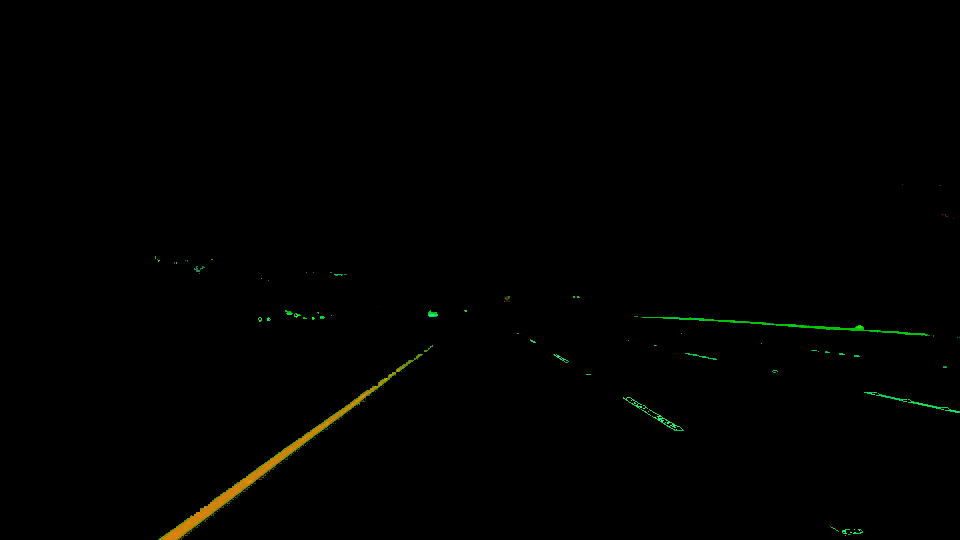
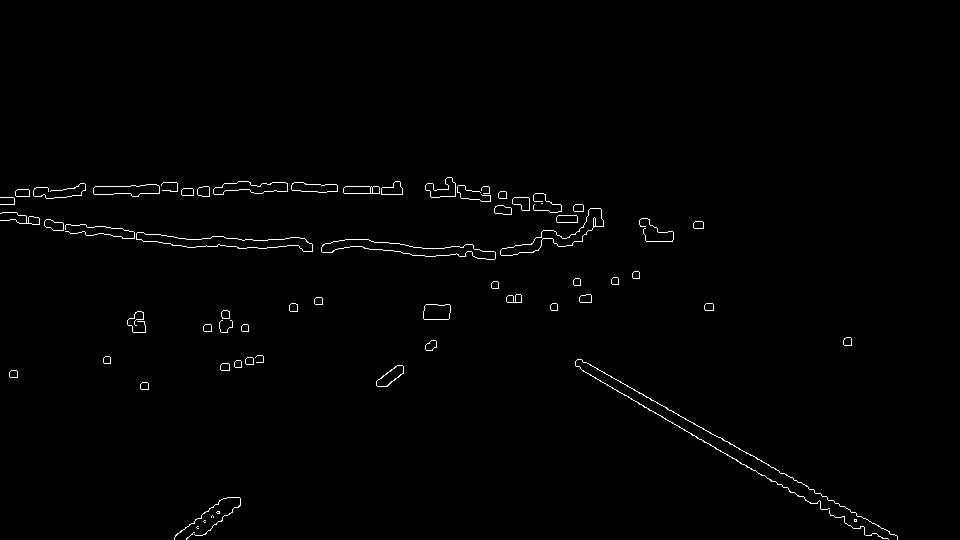
update

diff --git a/test.py b/test.py
@@ -4,7 +4,7 @@ import numpy as np
 path = '/solidWhiteCurve.jpg'
 
 white_lower = np.array([np.round(0 / 2), np.round(0.75 * 255), np.round(0.00 * 255)])
-white_upper = np.array([np.round(360 / 2), np.round(1.00 * 255), np.round(0.30 * 255)])
+white_upper = np.array([np.round(390 / 2), np.round(1 * 255), np.round(1 * 255)])
 
 
 # Yellow-ish areas in image
@@ -49,7 +49,7 @@ def get_image(path):
     return image
 
 
-vc = cv2.VideoCapture('test_videos/solidYellowLeft.mp4')
+vc = cv2.VideoCapture('test_videos/solidWhiteRight.mp4')
 if vc.isOpened():
     response, frame = vc.read()
 
@@ -88,44 +88,50 @@ while response:
 
     cannyed = cv2.Canny(dilated, 180, 200)
 
+    lines = cv2.HoughLinesP(cannyed, rho=1, theta=1 * np.pi / 180, threshold=110, minLineLength=100, maxLineGap=160)
+
+    for line in lines:
+        x1, y1, x2, y2 = line[0]
+        cv2.line(test_image_copy, (x1, y1), (x2, y2), (255, 0, 0), 3)
+
     contours, h = cv2.findContours(cannyed, cv2.RETR_EXTERNAL, cv2.CHAIN_APPROX_SIMPLE)
 
-    contours_sorted = sorted(contours, key=lambda cont: cv2.arcLength(cont, True), reverse=True)
-    bottom_top, bbox = sort_contours(contours, method="bottom-to-top")
-    cnt1 = bottom_top[1]
-    cnt2 = bottom_top[0]
-    cnt_top = bottom_top[-1]
-    bbox1 = bbox[0]
-    bbox2 = bbox[1]
-    bbox_top = bbox[-1]
-    cv2.imwrite('test.png', res)
+    # contours_sorted = sorted(contours, key=lambda cont: cv2.arcLength(cont, True), reverse=True)
+    # bottom_top, bbox = sort_contours(contours, method="bottom-to-top")
+    # cnt1 = bottom_top[1]
+    # cnt2 = bottom_top[0]
+    # cnt_top = bottom_top[-1]
+    # bbox1 = bbox[0]
+    # bbox2 = bbox[1]
+    # bbox_top = bbox[-1]
+    cv2.imwrite('test.png', cannyed)
 
-    try:
-        rect1 = cv2.minAreaRect(cnt1)
-        rect2 = cv2.minAreaRect(cnt2)
-        rect_top = cv2.minAreaRect(cnt_top)
-        box1 = cv2.boxPoints(rect1)
-        box2 = cv2.boxPoints(rect2)
-        box_top = cv2.boxPoints(rect_top)
-        box1 = np.int0(box1)
-        box2 = np.int0(box2)
-        box_top = np.int0(box_top)
-        # rows, cols = test_image_copy.shape[:2]
-        # [vx1, vy1, x1, y1] = cv2.fitLine(cnt1, cv2.DIST_L2, 0, 0.01, 0.01)
-        # [vx2, vy2, x2, y2] = cv2.fitLine(cnt2, cv2.DIST_L2, 0, 0.01, 0.01)
-        # lefty1 = int((-x1*vy1/vx1) + y1)
-        # righty1 = int(((cols-x1)*vy1/vx1)+y1)
-        #
-        # lefty2 = int((-x2*vy2/vx2) + y2)
-        # righty2 = int(((cols-x2)*vy2/vx2)+y2)
-        cv2.drawContours(test_image_copy, [box1], 0, (0, 255, 0), 2)
-        cv2.drawContours(test_image_copy, [box2], 0, (255, 0, 0), 2)
-        cv2.rectangle(test_image_copy, (box_top[0, 0], box_top[0, 1]), (box1[0, 0], box2[0, 0]), GREEN, -1)
-        # cv2.repeat(test_image_copy, box_top)
-        # cv2.line(test_image_copy, (cols-1, righty2), (0, lefty2), (0, 255, 0), 2)
-
-    except Exception as e:
-        continue
+    # try:
+    #     rect1 = cv2.minAreaRect(cnt1)
+    #     rect2 = cv2.minAreaRect(cnt2)
+    #     rect_top = cv2.minAreaRect(cnt_top)
+    #     box1 = cv2.boxPoints(rect1)
+    #     box2 = cv2.boxPoints(rect2)
+    #     box_top = cv2.boxPoints(rect_top)
+    #     box1 = np.int0(box1)
+    #     box2 = np.int0(box2)
+    #     box_top = np.int0(box_top)
+    #     # rows, cols = test_image_copy.shape[:2]
+    #     # [vx1, vy1, x1, y1] = cv2.fitLine(cnt1, cv2.DIST_L2, 0, 0.01, 0.01)
+    #     # [vx2, vy2, x2, y2] = cv2.fitLine(cnt2, cv2.DIST_L2, 0, 0.01, 0.01)
+    #     # lefty1 = int((-x1*vy1/vx1) + y1)
+    #     # righty1 = int(((cols-x1)*vy1/vx1)+y1)
+    #     #
+    #     # lefty2 = int((-x2*vy2/vx2) + y2)
+    #     # righty2 = int(((cols-x2)*vy2/vx2)+y2)
+    #     cv2.drawContours(test_image_copy, [box1], 0, (0, 255, 0), 2)
+    #     cv2.drawContours(test_image_copy, [box2], 0, (255, 0, 0), 2)
+    #     cv2.rectangle(test_image_copy, (box_top[0, 0], box_top[0, 1]), (box1[0, 0], box2[0, 0]), GREEN, -1)
+    #     # cv2.repeat(test_image_copy, box_top)
+    #     # cv2.line(test_image_copy, (cols-1, righty2), (0, lefty2), (0, 255, 0), 2)
+    #
+    # except Exception as e:
+    #     continue
     # epsilon = 0.1*cv2.arcLength(cnt, True)
     # approx = cv2.approxPolyDP(cnt, epsilon, True)
 
